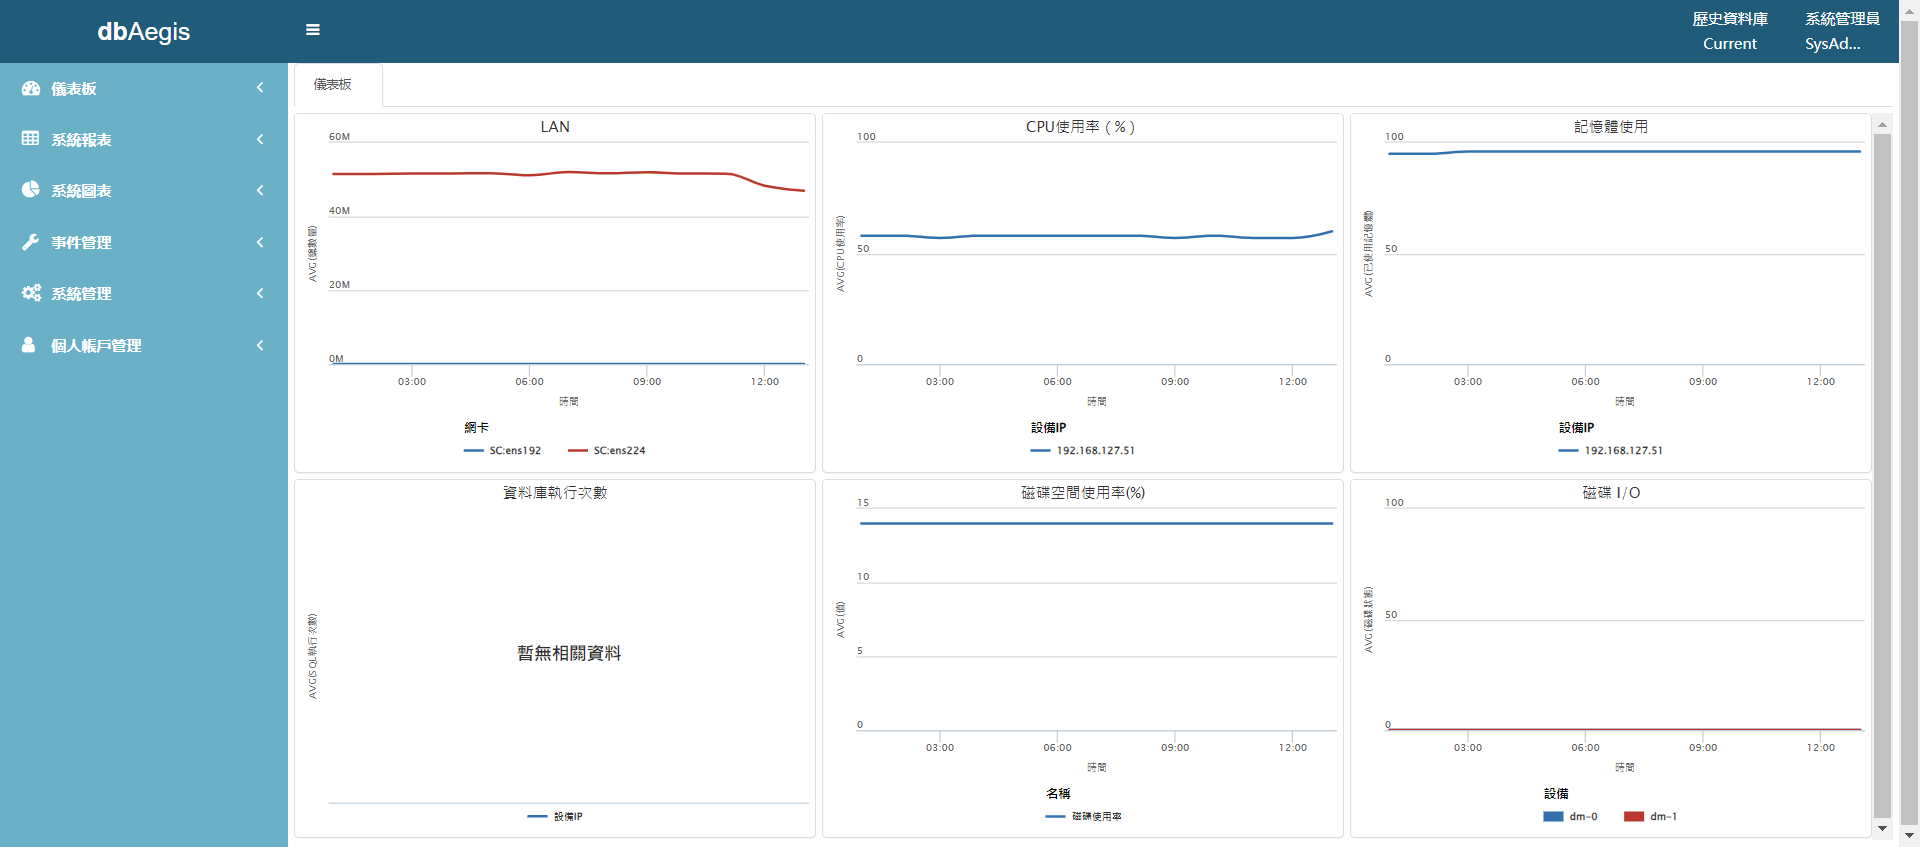
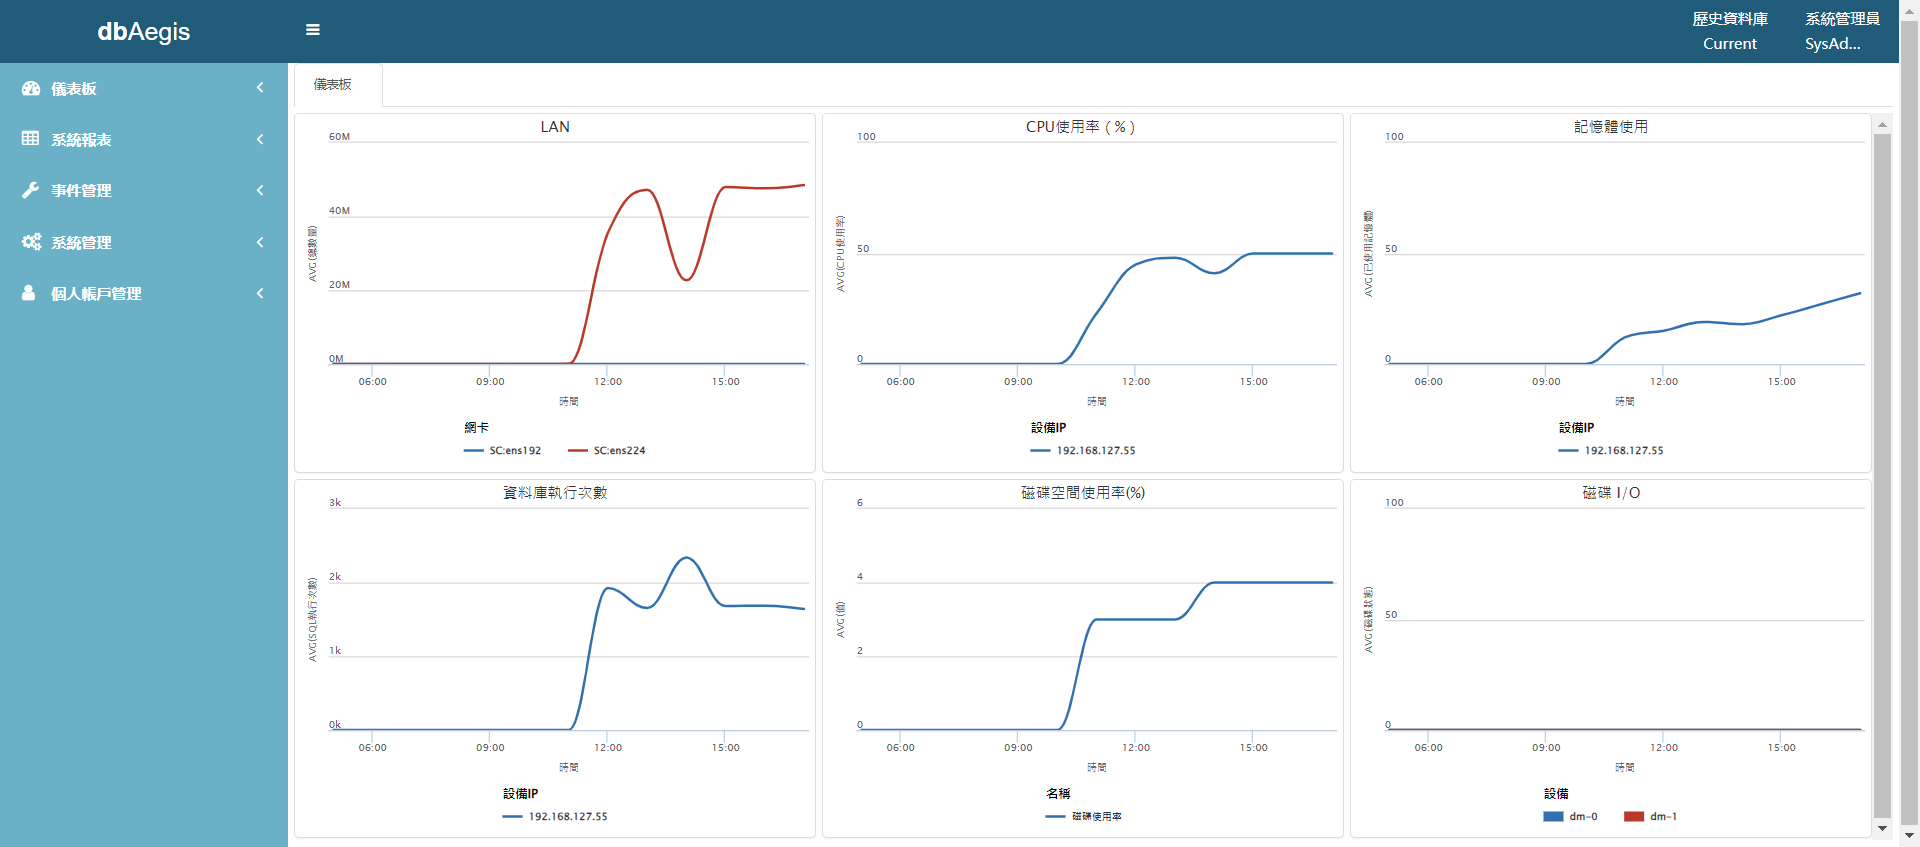
Run 192.168.127.55

diff --git a/CobraPageTest.py b/CobraPageTest.py
@@ -19,7 +19,8 @@ import pytesseract
 pytesseract.pytesseract.tesseract_cmd = "C:\Program Files\Tesseract-OCR\\tesseract.exe"
 
 driver = webdriver.Chrome()
-driver.get("https://192.168.127.51:8443/tw/#")
+#driver.get("https://192.168.127.51:8443/tw/#")
+driver.get("https://192.168.127.55:8443/tw/#")
 
 driver.maximize_window()
 #driver.set_window_size(1280,1024) 視窗大小
